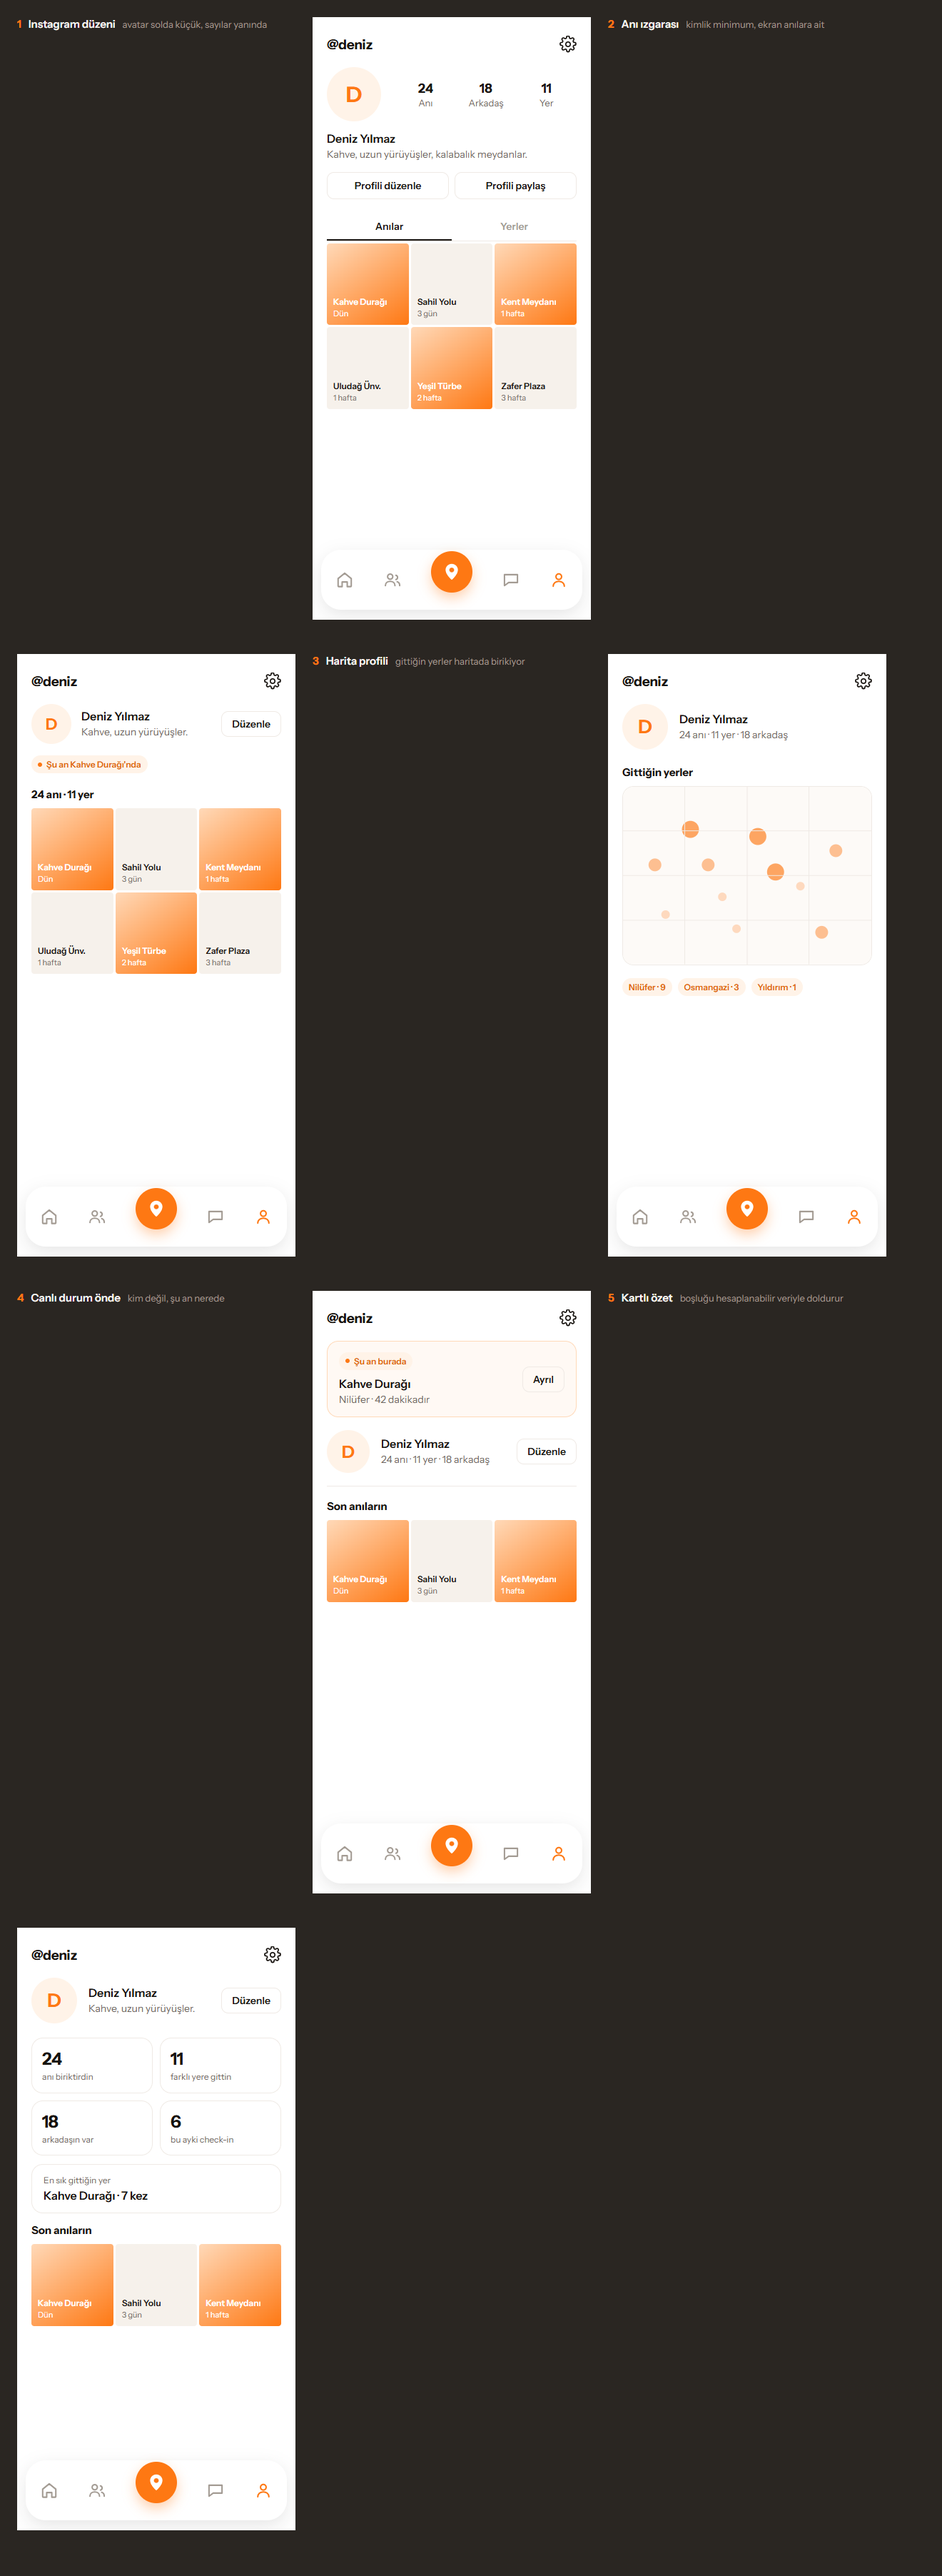
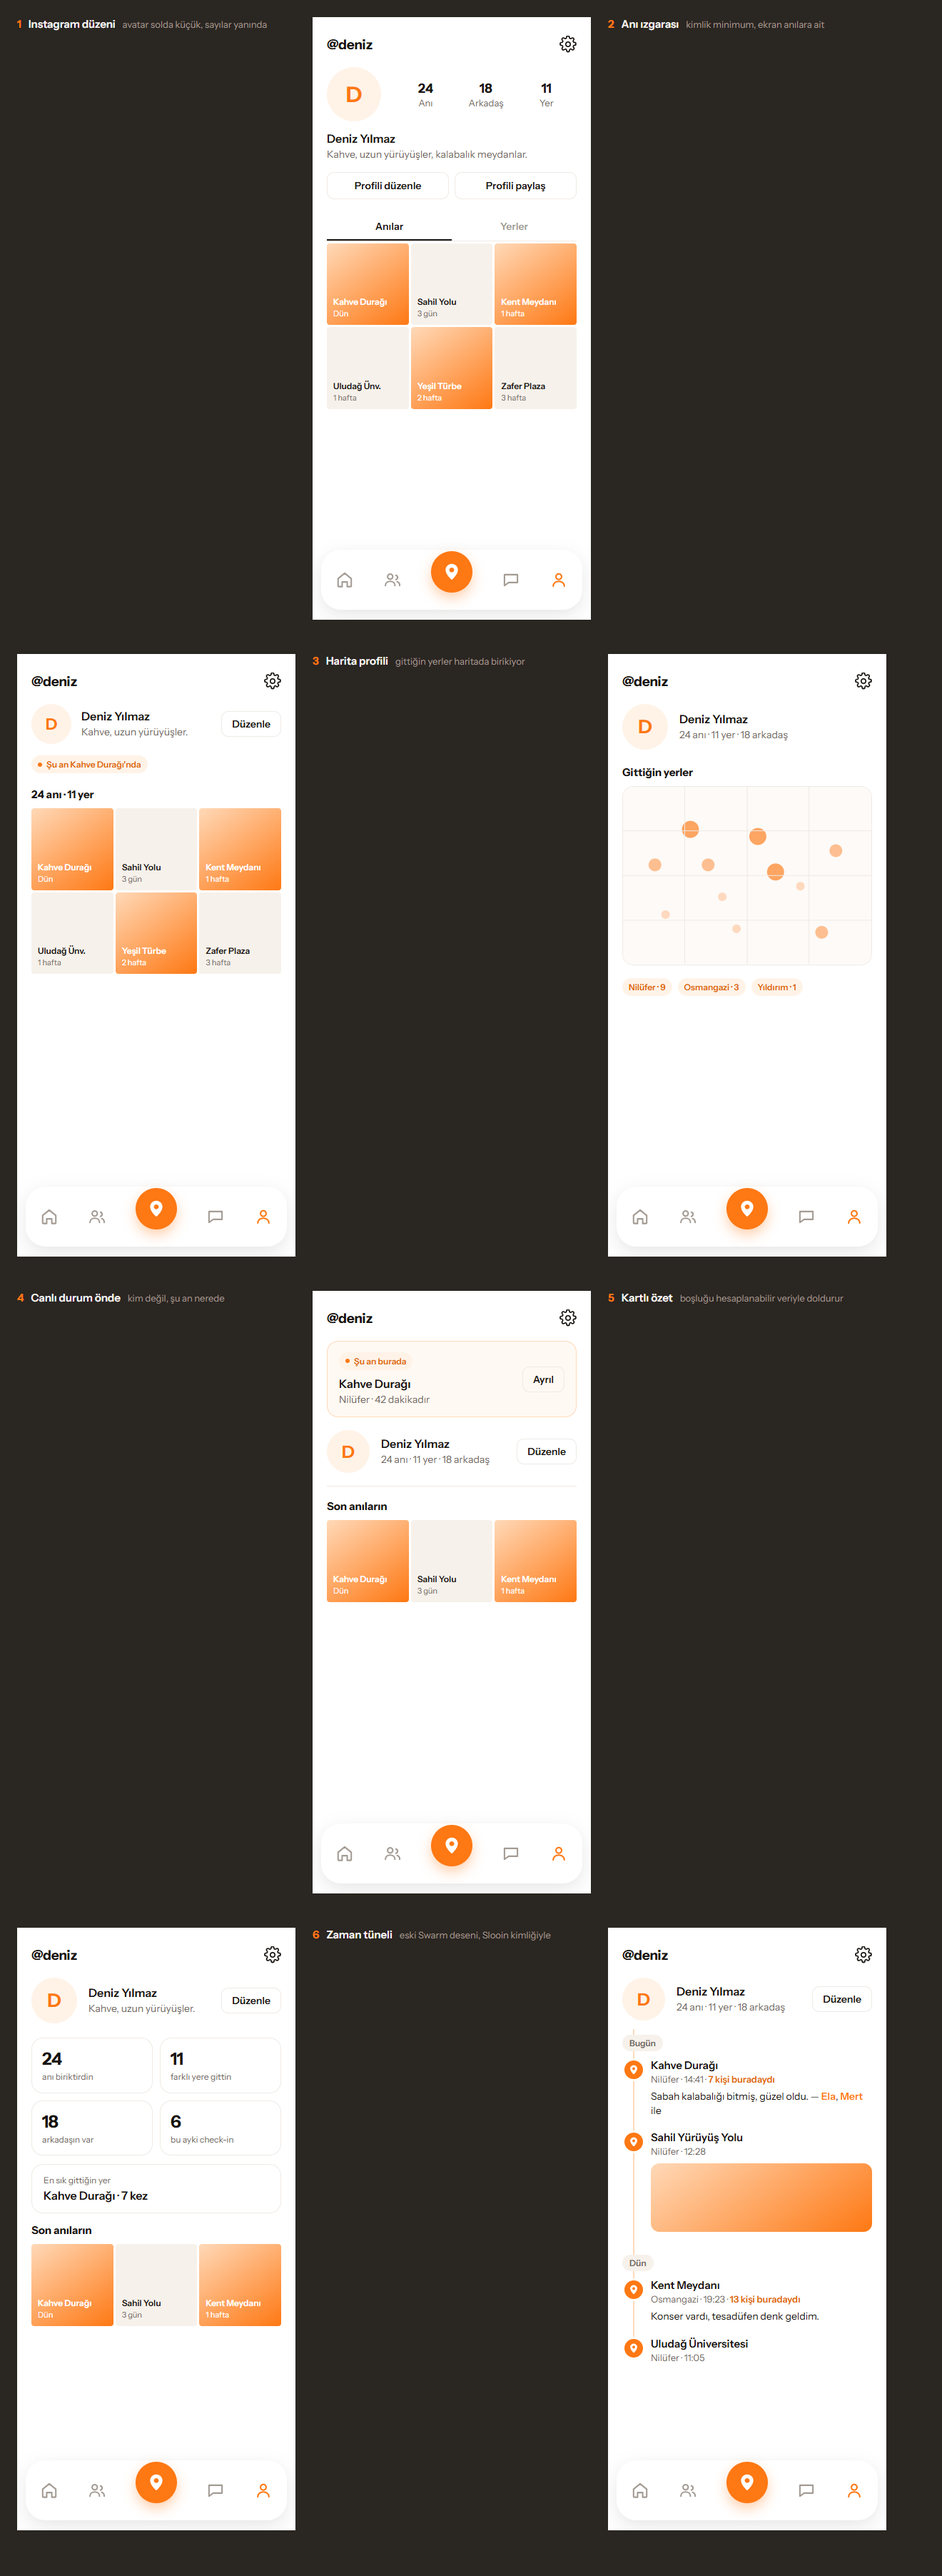
tasarim: profil icin 6. fikir - zaman tuneli (uygulanmadi)
Kullanicinin gonderdigi eski Swarm ekranlarindan alinan desen: dikey
bir serit boyunca dizilmis anilar, gun ayraclariyla.

Neden Slooin'e uygun: bizim anilarimiz FOTOGRAF DEGIL, YER VE ZAMAN.
Fotografsiz bir ani izgarada bos kare olurdu; tunelde kendi basina
anlamli bir satir. Fotograf varsa ayni satirin icine giriyor.

Swarm'dan ALINMAYAN: renkli kutular (turuncu/yesil/mavi/kirmizi/mor).
Slooin'de turuncu yalnizca eylem ve canlilik demek; alti ayri renk o
anlami siler.

Uygulamada HICBIR degisiklik yok.

Claude-Session: https://claude.ai/code/session_01RPADX9vz5pGDstg48GDVRa

Changed region(s): [[0.6212, 0.745, 0.9629, 0.9933]]

diff --git a/tasarim/profil-fikirleri.html b/tasarim/profil-fikirleri.html
@@ -89,6 +89,33 @@
   .etiket-sat i { color: #FE7813; font-style: normal; font-weight: 700; }
   .etiket-sat small { color: #a49b92; font-weight: 400; font-size: 13px; }
   .tahta > div.telefon { margin-bottom: 40px; }
+
+  /* --- zaman tuneli (Swarm deseni, Slooin kimligiyle) --- */
+  .tunel { position: relative; padding-left: 40px; margin-top: 6px; }
+  .tunel:before {
+    content: ''; position: absolute; left: 15px; top: 6px; bottom: 10px;
+    width: 2px; background: #FFD9B8;
+  }
+  .gun {
+    font-size: 12px; font-weight: 600; color: #6E6660; background: #F6F1EB;
+    display: inline-block; padding: 4px 10px; border-radius: 999px;
+    margin: 14px 0 10px -40px; position: relative;
+  }
+  .ani { position: relative; margin-bottom: 18px; }
+  .ani .isaret {
+    position: absolute; left: -40px; top: 0; width: 32px; height: 32px;
+    border-radius: 999px; background: #FE7813; display: grid; place-items: center;
+    border: 3px solid #fff;
+  }
+  .ani .isaret svg { width: 16px; height: 16px; }
+  .ani .yer { font-size: 15px; font-weight: 600; color: #17130F; }
+  .ani .bilgi { font-size: 13px; color: #6E6660; margin-top: 2px; }
+  .ani .not { font-size: 14px; color: #17130F; margin-top: 7px; line-height: 1.4; }
+  .ani .not b { color: #FE7813; font-weight: 600; }
+  .ani .foto {
+    height: 96px; border-radius: 12px; margin-top: 9px;
+    background: linear-gradient(145deg,#FFD9B8,#FE7813);
+  }
 </style>
 
 <div id="tahta" class="tahta"></div>
@@ -223,12 +250,61 @@
     <div class="baslik" style="margin-top:14px">Son anıların</div>
     ${izgara(3)}`
 
+  // ---- 6. ZAMAN TUNELI (eski Swarm deseni) ---------------------------
+  // Kullanicinin gonderdigi eski Swarm ekranlarindan alinan desen:
+  // dikey bir serit boyunca dizilmis anilar. Bizim anilarimiz FOTOGRAF
+  // DEGIL, YER VE ZAMAN oldugu icin izgaradan daha uygun - fotografsiz
+  // bir ani izgarada bos kare, tunelde ise kendi basina anlamli.
+  // Renkli kutular ALINMADI: Slooin'de turuncu yalnizca eylem ve
+  // canlilik demek, alti ayri renk o anlami siler.
+  const p6 = ust + `
+    <div class="satir" style="gap:16px">
+      <div class="avatar" style="width:60px;height:60px;font-size:24px">D</div>
+      <div class="buyu"><div class="ad">Deniz Yılmaz</div>
+        <div class="bio">24 anı · 11 yer · 18 arkadaş</div></div>
+      <div class="dugme" style="padding:8px 14px">Düzenle</div>
+    </div>
+
+    <div class="tunel">
+      <div class="gun">Bugün</div>
+
+      <div class="ani">
+        <div class="isaret">${I.igne}</div>
+        <div class="yer">Kahve Durağı</div>
+        <div class="bilgi">Nilüfer · 14:41 · <span style="color:#E06509;font-weight:600">7 kişi buradaydı</span></div>
+        <div class="not">Sabah kalabalığı bitmiş, güzel oldu. — <b>Ela</b>, <b>Mert</b> ile</div>
+      </div>
+
+      <div class="ani">
+        <div class="isaret">${I.igne}</div>
+        <div class="yer">Sahil Yürüyüş Yolu</div>
+        <div class="bilgi">Nilüfer · 12:28</div>
+        <div class="foto"></div>
+      </div>
+
+      <div class="gun">Dün</div>
+
+      <div class="ani">
+        <div class="isaret">${I.igne}</div>
+        <div class="yer">Kent Meydanı</div>
+        <div class="bilgi">Osmangazi · 19:23 · <span style="color:#E06509;font-weight:600">13 kişi buradaydı</span></div>
+        <div class="not">Konser vardı, tesadüfen denk geldim.</div>
+      </div>
+
+      <div class="ani">
+        <div class="isaret">${I.igne}</div>
+        <div class="yer">Uludağ Üniversitesi</div>
+        <div class="bilgi">Nilüfer · 11:05</div>
+      </div>
+    </div>`
+
   const SECENEKLER = [
     ['1', 'Instagram düzeni', 'avatar solda küçük, sayılar yanında', p1],
     ['2', 'Anı ızgarası', 'kimlik minimum, ekran anılara ait', p2],
     ['3', 'Harita profili', 'gittiğin yerler haritada birikiyor', p3],
     ['4', 'Canlı durum önde', 'kim değil, şu an nerede', p4],
     ['5', 'Kartlı özet', 'boşluğu hesaplanabilir veriyle doldurur', p5],
+    ['6', 'Zaman tüneli', 'eski Swarm deseni, Slooin kimliğiyle', p6],
   ]
 
   document.getElementById('tahta').innerHTML = SECENEKLER.map(([no, ad, not, ic]) =>
